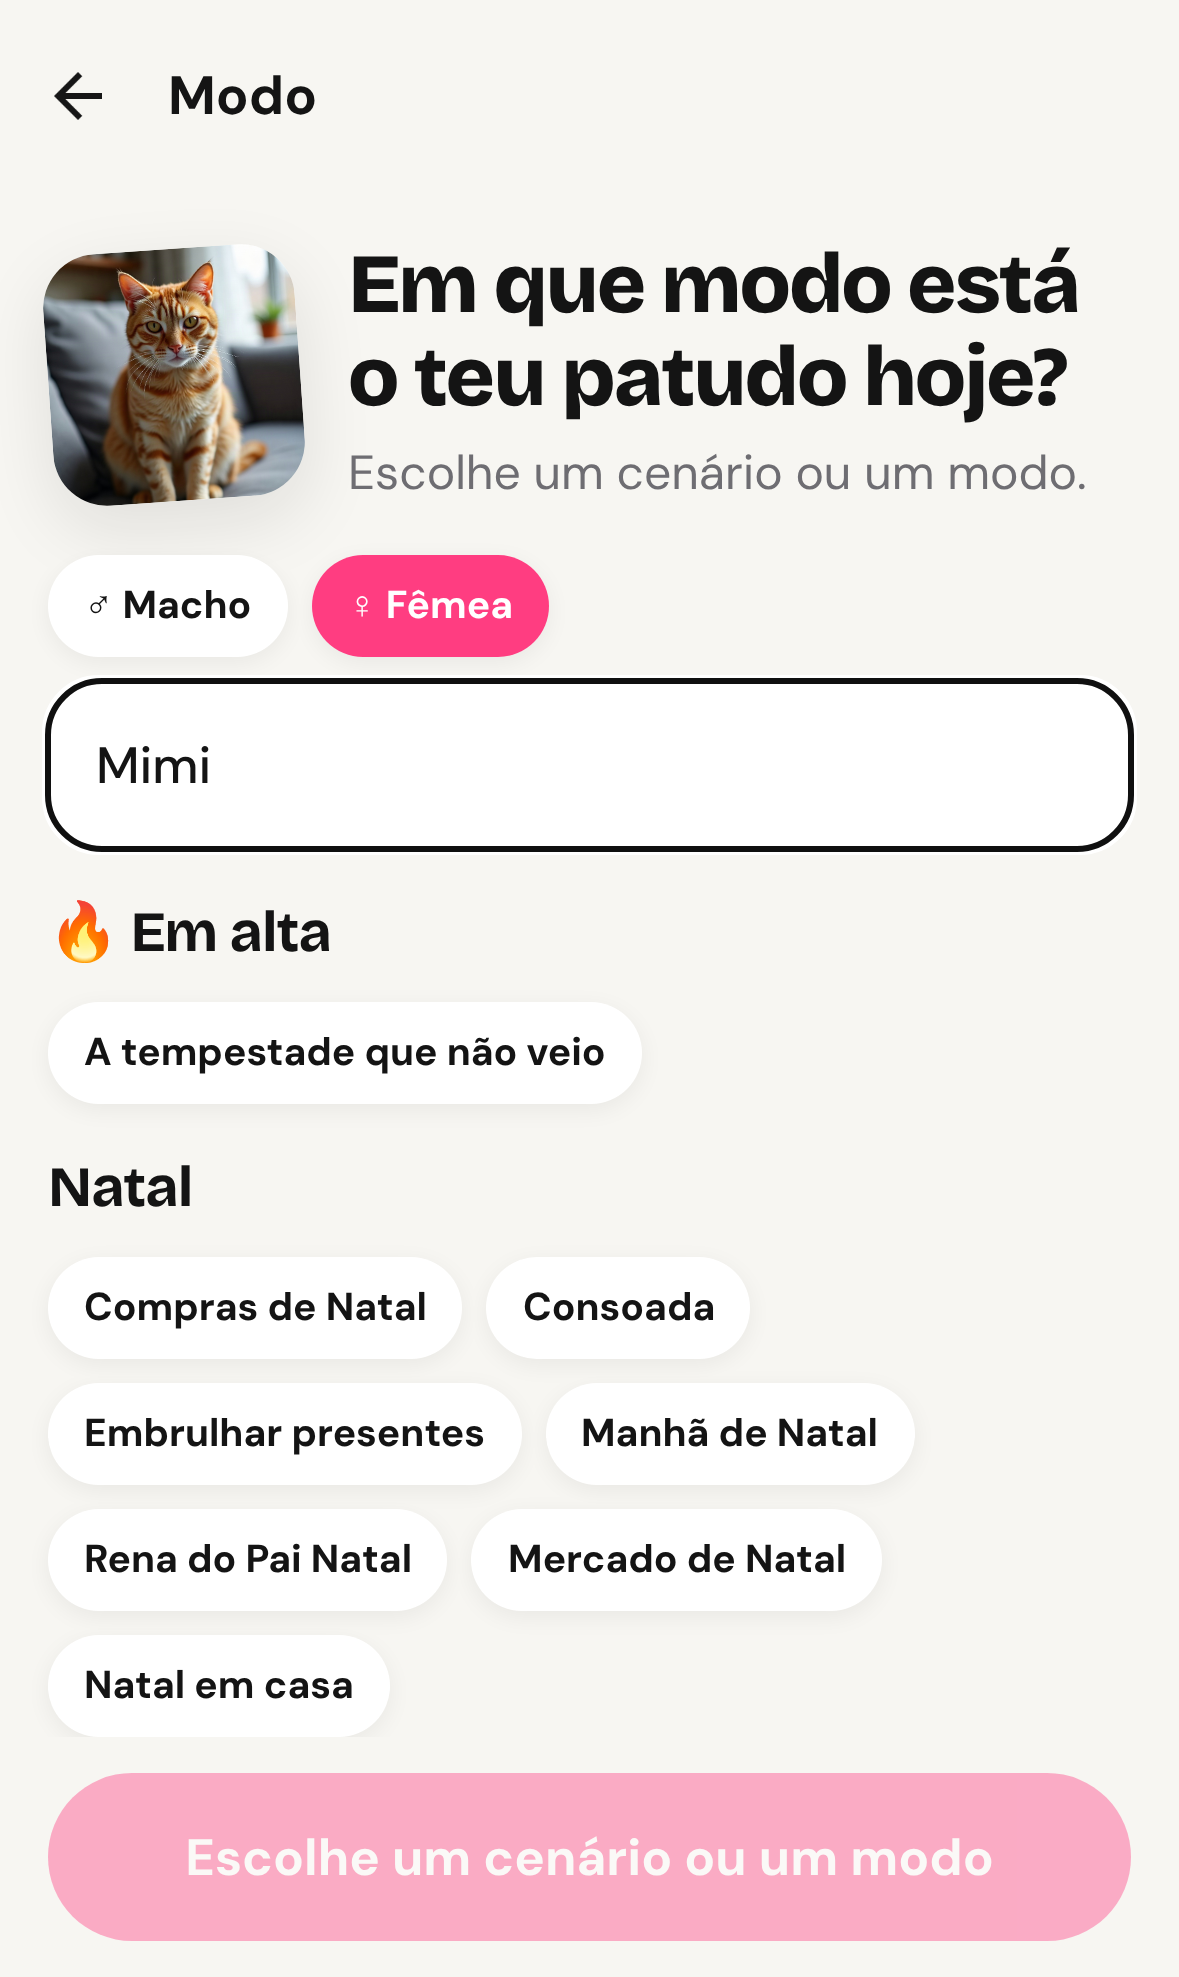
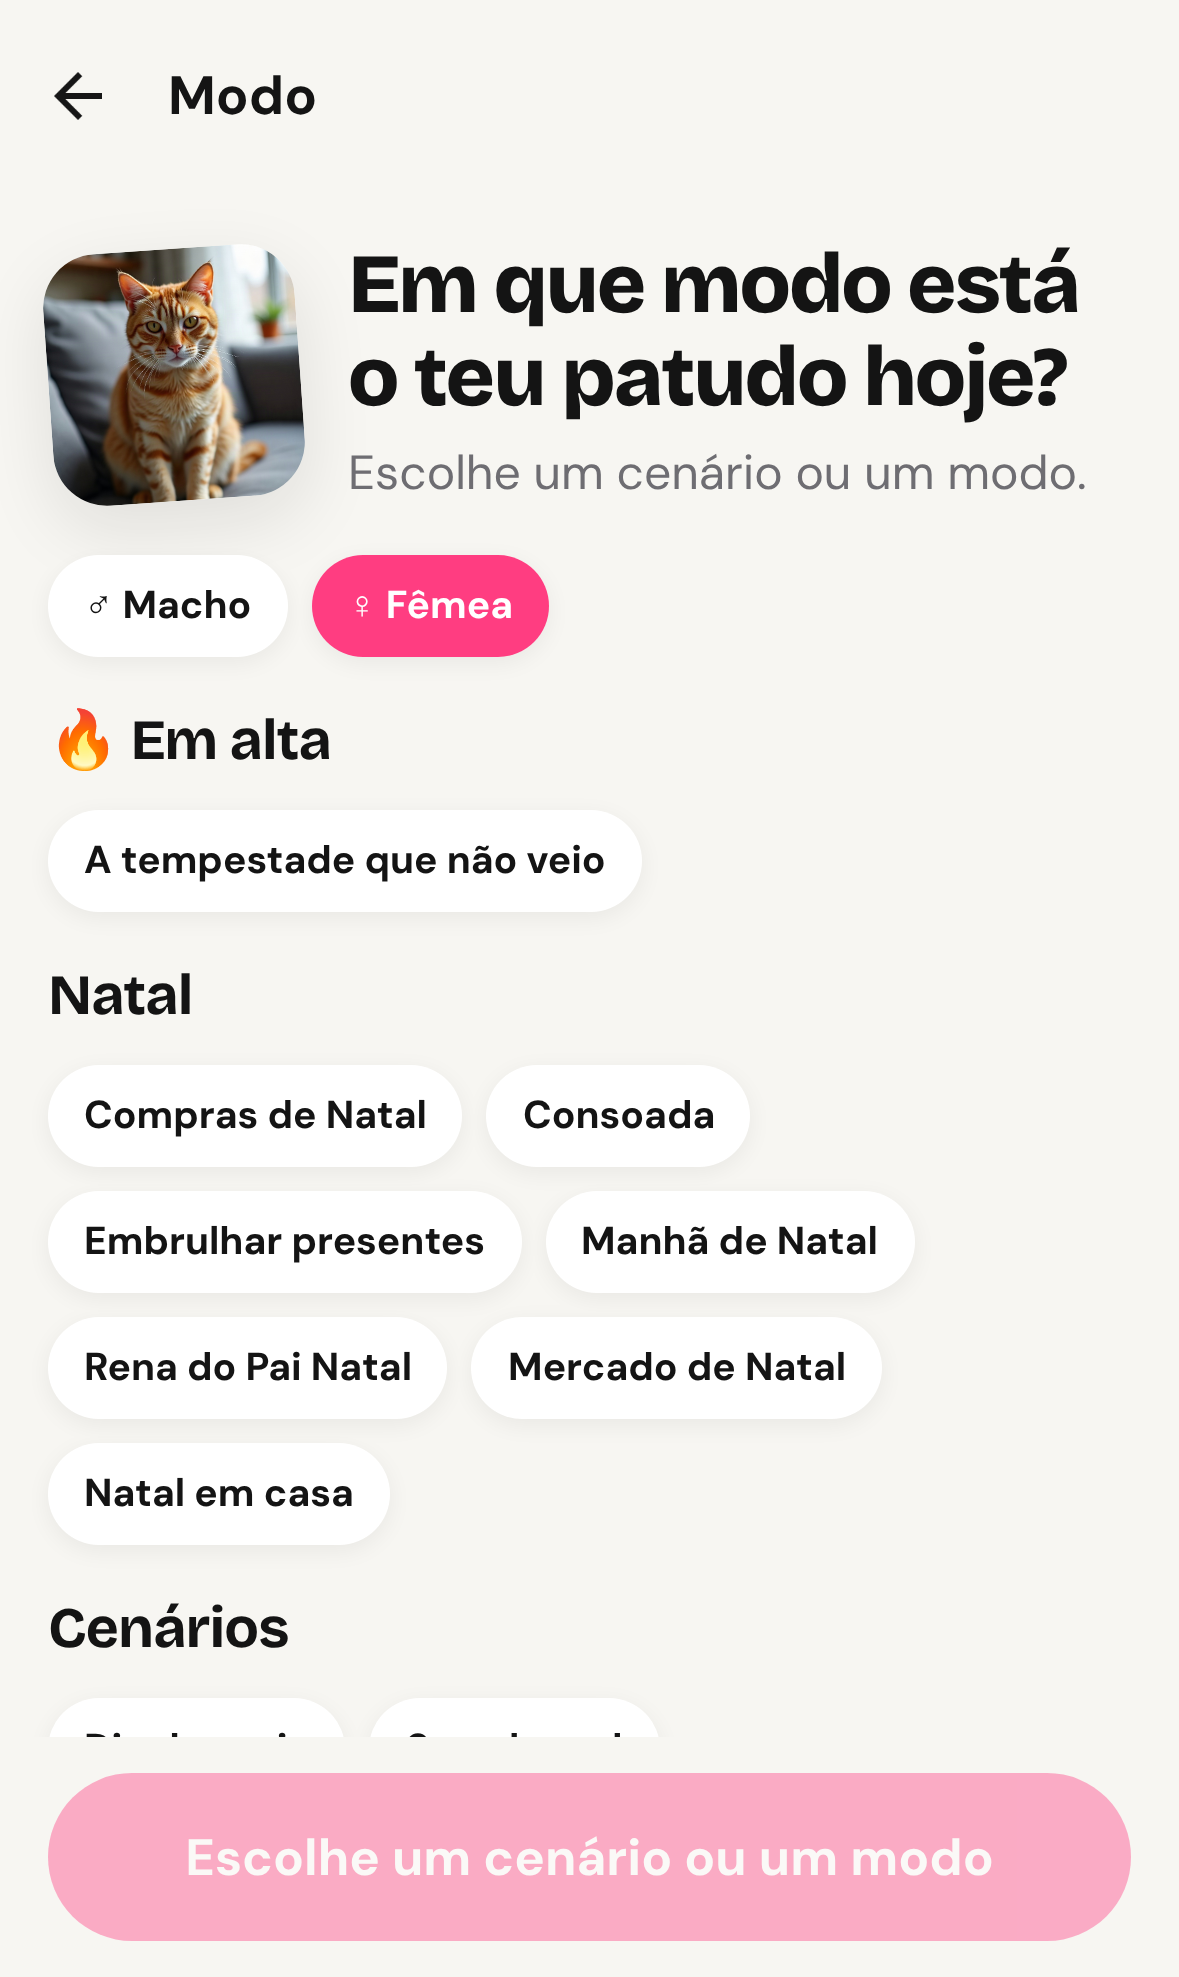
Retira o nome do animal da app; fica só macho/fêmea (opcional)
Claude-Session: https://claude.ai/code/session_01N83rQRxUsZKxynSdEqwWBY

diff --git a/mobile/src/app/personality.tsx b/mobile/src/app/personality.tsx
@@ -38,7 +38,6 @@ import { hasAiConsent } from "@/features/consent/aiConsent";
 import { type DraftChoice, useDraft } from "@/features/draft/DraftContext";
 import {
   loadPetProfile,
-  PET_NAME_MAX,
   type PetProfile,
   type PetSex,
   savePetProfile,
@@ -110,11 +109,9 @@ export default function PersonalityScreen() {
       return;
     }
     if (!choiceReady) return;
-    const petName = pet.name?.replace(/\s+/g, " ").trim();
     const extra = {
       ...(draft.comicId ? { comicId: draft.comicId } : {}),
       ...(pet.sex ? { petSex: pet.sex } : {}),
-      ...(petName ? { petName } : {}),
     };
     const request: TranslationChoice =
       choice.kind === "mode"
@@ -235,7 +232,7 @@ export default function PersonalityScreen() {
         </View>
       </View>
 
-      {/* Optional: only to write the line (feminine or masculine words, the pet's name). */}
+      {/* Optional: only to write the line with feminine or masculine words. */}
       <View style={styles.pet}>
         <View style={styles.chips}>
           <SceneChip
@@ -251,20 +248,6 @@ export default function PersonalityScreen() {
             onPress={() => toggleSex("female")}
           />
         </View>
-        <TextField
-          testID="pet-name"
-          value={pet.name ?? ""}
-          onChangeText={(name) =>
-            updatePet({
-              ...pet,
-              name: name.slice(0, PET_NAME_MAX) || undefined,
-            })
-          }
-          placeholder={t("pet.namePlaceholder")}
-          maxLength={PET_NAME_MAX}
-          returnKeyType="done"
-          autoCapitalize="words"
-        />
       </View>
 
       {trending.length > 0 ? (

diff --git a/mobile/src/features/pet/petProfile.ts b/mobile/src/features/pet/petProfile.ts
@@ -1,11 +1,8 @@
 import { kv } from '@/lib/kv';
 
-/** Optional, told by the owner: used only to write the line (gender agreement, the pet's name). */
+/** Optional, told by the owner: used only to write the line (gender agreement) and the male Diva. */
 export type PetSex = 'male' | 'female';
-export type PetProfile = { sex?: PetSex; name?: string };
-
-/** Same limit as the server. */
-export const PET_NAME_MAX = 20;
+export type PetProfile = { sex?: PetSex };
 
 const KEY = 'pet-profile-v1';
 
@@ -14,10 +11,7 @@ export async function loadPetProfile(): Promise<PetProfile> {
   try {
     const raw = await kv.getItem(KEY);
     const data = raw ? JSON.parse(raw) : {};
-    return {
-      sex: data.sex === 'male' || data.sex === 'female' ? data.sex : undefined,
-      name: typeof data.name === 'string' && data.name ? data.name.slice(0, PET_NAME_MAX) : undefined,
-    };
+    return { sex: data.sex === 'male' || data.sex === 'female' ? data.sex : undefined };
   } catch {
     return {};
   }

diff --git a/mobile/src/features/backend/types.ts b/mobile/src/features/backend/types.ts
@@ -24,7 +24,6 @@ export type TranslationChoice = (
 ) & {
   /** Optional, from the owner, for the line only. */
   petSex?: 'male' | 'female';
-  petName?: string;
 };
 
 /** Limits of a scene typed by the user (also enforced in the database). */

diff --git a/mobile/src/i18n/locales/fr.ts b/mobile/src/i18n/locales/fr.ts
@@ -42,7 +42,6 @@ const fr: Strings = {
   pet: {
     male: '♂ Mâle',
     female: '♀ Femelle',
-    namePlaceholder: 'Nom de ton compagnon (facultatif)',
   },
   scene: {
     trending: '🔥 Tendance',

diff --git a/mobile/src/i18n/locales/es.ts b/mobile/src/i18n/locales/es.ts
@@ -42,7 +42,6 @@ const es: Strings = {
   pet: {
     male: '♂ Macho',
     female: '♀ Hembra',
-    namePlaceholder: 'Nombre de tu mascota (opcional)',
   },
   scene: {
     trending: '🔥 Tendencia',

diff --git a/mobile/src/i18n/locales/en.ts b/mobile/src/i18n/locales/en.ts
@@ -42,7 +42,6 @@ const en: Strings = {
   pet: {
     male: '♂ Male',
     female: '♀ Female',
-    namePlaceholder: 'Your pet’s name (optional)',
   },
   scene: {
     trending: '🔥 Trending',

diff --git a/mobile/src/i18n/locales/pt-PT.ts b/mobile/src/i18n/locales/pt-PT.ts
@@ -40,7 +40,6 @@ const ptPT = {
   pet: {
     male: '♂ Macho',
     female: '♀ Fêmea',
-    namePlaceholder: 'Nome do patudo (opcional)',
   },
   scene: {
     trending: '🔥 Em alta',

diff --git a/CLAUDE.md b/CLAUDE.md
@@ -117,7 +117,7 @@ mobile/
       translate/translate.ts   frases locais (só modo local)
       history/history.ts       histórico guardado no dispositivo
       store/                   compras: creditStore.ios.ts (StoreKit 2 via expo-iap; desligado na Expo Go) e creditStore.ts (web: sem compras). Cada transação vai a `verify-purchase` antes de ser fechada; as que ficaram a meio são entregues ao abrir a app com sessão (AuthContext)
-      pet/petProfile.ts        macho/fêmea e nome do animal (opcionais, guardados no dispositivo)
+      pet/petProfile.ts        macho/fêmea (opcional, guardado no dispositivo)
       draft/DraftContext.tsx   foto + escolha (modo | cenário | criar cenário) + toque engraçado, antes de criar a imagem
     components/                ThoughtBalloon, TranslationCanvas (vista exportada como PNG)
     lib/                       fotos (câmara/galeria), exportar/partilhar/guardar, kv (SQLite | localStorage)
@@ -142,7 +142,7 @@ mobile/
 - Recorte: o "há animal?" devolve também onde está a fotografia dentro da imagem; se houver barras ou margens (capturas de ecrã), o servidor corta só isso — o conteúdo da foto nunca é cortado (pedido do dono do produto). Se o recorte falhar, usa a original. Fotos que já trazem a nossa marca de água (capturas da app) não são cortadas: o modelo copia a marca, e o dono do produto aceitou deixar assim.
 - Frases da IA: lógica de animal, inspiradas no que os donos dizem dos bichos; a IA descarta a primeira ideia (óbvia). Máx. **45** caracteres (`PHRASE_MAX`), golpe seco no fim, nunca descrever a roupa/cenário. A IA dá 3 opções e o servidor escolhe a primeira que cabe; se nenhuma couber, pede outra vez uma vez. O tom do modo/cenário dá só a atitude: nunca mencionar objetos do tom que não estejam na imagem (o Mercado de Natal falava de salsichas que não existiam). Com nome, o nome vai na melhor opção, mas a piada vem primeiro. A frase usa esforço `medium` (mais graça).
 - Cenários (`scenes`, no servidor, prompts escondidos): escolhidos em vez de um modo (`generations.personality_id` fica vazio; `language` guarda a língua do cenário criado). Apps antigas que enviam um engraçado como `sceneId` continuam a funcionar (passa a toque). Criar cenário: recusado (pessoas reais, marcas, impróprio…) → `scene_rejected`, 2 créditos devolvidos. No modo local não há cenários.
-- Macho/fêmea e nome (opcionais, decisão do dono do produto): no topo do ecrã de escolha, "♂ Macho · ♀ Fêmea" e "Nome do patudo", lembrados no dispositivo (`features/pet`); vão para `generations.pet_sex`/`pet_name`. A frase concorda com o género (PT/ES/FR) e, se houver nome, usa-o sempre (a pessoa espera vê-lo). Modos com roupa "feminina" têm versão para macho (`personalities.image_prompt_male`; hoje só a Diva: estola e óculos azuis em vez de rosa). Nome limpo no servidor (`cleanPetName`: letras, até 20).
+- Macho/fêmea (opcional, decisão do dono do produto): no topo do ecrã de escolha, "♂ Macho · ♀ Fêmea", lembrado no dispositivo (`features/pet`); vai para `generations.pet_sex`. A frase concorda com o género (PT/ES/FR) e a Diva macho veste azul (`personalities.image_prompt_male`). O nome do animal foi retirado da app (decisão do dono do produto); o servidor ainda aceita `petName` (`cleanPetName`) de versões antigas, mas a app já não o envia.
 - Frase própria: "Escrever a minha frase", máx. **45** caracteres (`CUSTOM_PHRASE_MAX` e `check` na BD), grátis, sem IA; `custom_phrase` substitui a frase da IA no balão.
 - Balão: rasto de 3 bolinhas desenhado na foto, a apontar para a cabeça e a parar antes dela (encolhem ou desaparecem se não houver espaço); cor pastel (`colors.balloonTints`) estável por tradução (`tintFor(id)`), tocar no balão troca a cor.
 - Marca de água fixa em todas as imagens (canto inferior direito, pequena): "Feito com IA · PetBubble" (AI Act da UE + publicidade). Não se pode remover. Só não aparece no ecrã de espera, que mostra a foto original.
